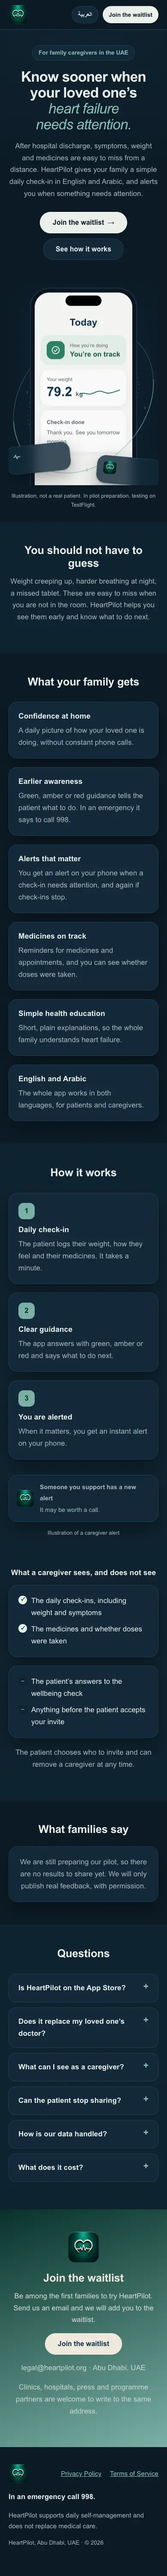
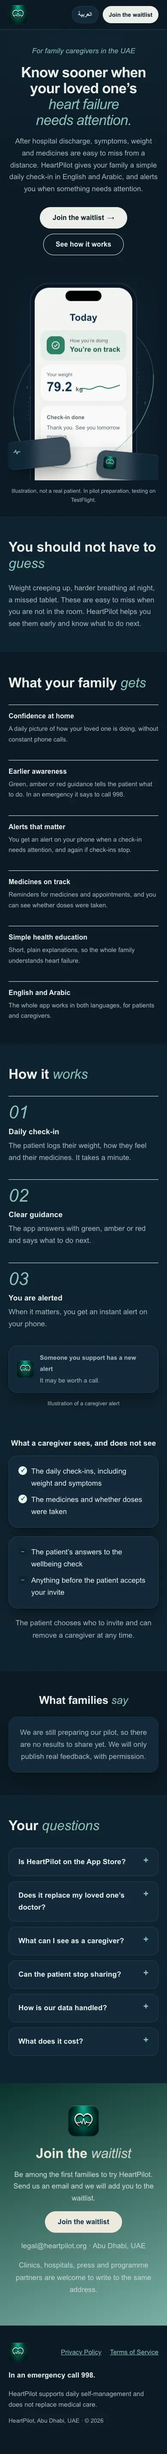
Editorial styling after references: italic accents, split heading, ruled columns, numbered steps, hero glow

diff --git a/index.html b/index.html
@@ -40,7 +40,7 @@
 </div></div></header>
 <main id="main">
 <section class="hero"><div class="wrap center">
-<p class="eyebrow"><span data-l="en">For family caregivers in the UAE</span><span data-l="ar" lang="ar">لأفراد العائلة الذين يرعون مرضى قصور القلب في الإمارات</span></p>
+<p class="eyebrow tagline"><span data-l="en">For family caregivers in the UAE</span><span data-l="ar" lang="ar">لأفراد العائلة الذين يرعون مرضى قصور القلب في الإمارات</span></p>
 <h1><span data-l="en">Know sooner when your loved one’s <em>heart failure needs attention.</em></span><span data-l="ar" lang="ar">اعرف مبكراً متى يحتاج مريض قصور القلب في عائلتك <em>إلى انتباه.</em></span></h1>
 <p class="lead"><span data-l="en">After hospital discharge, symptoms, weight and medicines are easy to miss from a distance. HeartPilot gives your family a simple daily check-in in English and Arabic, and alerts you when something needs attention.</span><span data-l="ar" lang="ar">بعد خروج المريض من المستشفى، يصعب أن تتابع الأعراض والوزن والأدوية عن بُعد. يقدم لكم هارت بايلوت فحصاً يومياً بسيطاً بالعربية والإنجليزية، وينبّهكم عندما يحتاج أمر ما إلى انتباه.</span></p>
 <div class="cta"><a class="btn btn-dark" href="#contact"><span data-l="en">Join the waitlist</span><span data-l="ar" lang="ar">انضم إلى قائمة الانتظار</span><i aria-hidden="true" class="arr">→</i></a><a class="btn btn-ghost" href="#how"><span data-l="en">See how it works</span><span data-l="ar" lang="ar">شاهد كيف يعمل</span></a></div>
@@ -63,19 +63,19 @@
 </div>
 <p class="cap"><span data-l="en">Illustration, not a real patient. In pilot preparation, testing on TestFlight.</span><span data-l="ar" lang="ar">رسم توضيحي وليس مريضاً حقيقياً. قيد التحضير للتجربة ونختبر التطبيق عبر TestFlight.</span></p>
 </div></section>
-<section class="alt"><div class="wrap narrow center">
-<h2><span data-l="en">You should not have to guess</span><span data-l="ar" lang="ar">لا ينبغي أن تظل تخمّن</span></h2>
+<section class="alt"><div class="wrap split">
+<h2><span data-l="en">You should not have to <em>guess</em></span><span data-l="ar" lang="ar">لا ينبغي أن <em>تظل تخمّن</em></span></h2>
 <p class="lead"><span data-l="en">Weight creeping up, harder breathing at night, a missed tablet. These are easy to miss when you are not in the room. HeartPilot helps you see them early and know what to do next.</span><span data-l="ar" lang="ar">زيادة الوزن شيئاً فشيئاً، وصعوبة التنفس في الليل، وجرعة منسية. أمور يسهل أن تفوتك حين لا تكون بجانب المريض. يساعدك هارت بايلوت على ملاحظتها مبكراً ومعرفة الخطوة التالية.</span></p>
 </div></section>
 <section id="benefits"><div class="wrap">
-<div class="sec-head"><h2><span data-l="en">What your family gets</span><span data-l="ar" lang="ar">ماذا تحصل عائلتك</span></h2></div>
-<ul class="grid"><li class="card"><h3><span data-l="en">Confidence at home</span><span data-l="ar" lang="ar">ثقة في البيت</span></h3><p><span data-l="en">A daily picture of how your loved one is doing, without constant phone calls.</span><span data-l="ar" lang="ar">صورة يومية عن حال مريضك، من دون اتصالات متكررة.</span></p></li><li class="card"><h3><span data-l="en">Earlier awareness</span><span data-l="ar" lang="ar">انتباه أبكر</span></h3><p><span data-l="en">Green, amber or red guidance tells the patient what to do. In an emergency it says to call 998.</span><span data-l="ar" lang="ar">إرشاد بالأخضر أو البرتقالي أو الأحمر يخبر المريض بما يفعله. وفي الطوارئ يطلب الاتصال بالرقم 998.</span></p></li><li class="card"><h3><span data-l="en">Alerts that matter</span><span data-l="ar" lang="ar">تنبيهات عند الحاجة</span></h3><p><span data-l="en">You get an alert on your phone when a check-in needs attention, and again if check-ins stop.</span><span data-l="ar" lang="ar">يصلك تنبيه على هاتفك عندما يحتاج تسجيل إلى انتباه، وعندما تتوقف التسجيلات.</span></p></li><li class="card"><h3><span data-l="en">Medicines on track</span><span data-l="ar" lang="ar">الأدوية في موعدها</span></h3><p><span data-l="en">Reminders for medicines and appointments, and you can see whether doses were taken.</span><span data-l="ar" lang="ar">تذكيرات بالأدوية والمواعيد، وترى هل أُخذت الجرعات.</span></p></li><li class="card"><h3><span data-l="en">Simple health education</span><span data-l="ar" lang="ar">تثقيف صحي مبسّط</span></h3><p><span data-l="en">Short, plain explanations, so the whole family understands heart failure.</span><span data-l="ar" lang="ar">شروحات قصيرة وواضحة ليفهم الجميع قصور القلب.</span></p></li><li class="card"><h3><span data-l="en">English and Arabic</span><span data-l="ar" lang="ar">العربية والإنجليزية</span></h3><p><span data-l="en">The whole app works in both languages, for patients and caregivers.</span><span data-l="ar" lang="ar">التطبيق كله بلغتين، للمرضى ولأفراد العائلة.</span></p></li></ul></div></section>
+<div class="sec-head"><h2><span data-l="en">What your family <em>gets</em></span><span data-l="ar" lang="ar">ماذا <em>تحصل عائلتك</em></span></h2></div>
+<ul class="grid"><li class="col"><h3><span data-l="en">Confidence at home</span><span data-l="ar" lang="ar">ثقة في البيت</span></h3><p><span data-l="en">A daily picture of how your loved one is doing, without constant phone calls.</span><span data-l="ar" lang="ar">صورة يومية عن حال مريضك، من دون اتصالات متكررة.</span></p></li><li class="col"><h3><span data-l="en">Earlier awareness</span><span data-l="ar" lang="ar">انتباه أبكر</span></h3><p><span data-l="en">Green, amber or red guidance tells the patient what to do. In an emergency it says to call 998.</span><span data-l="ar" lang="ar">إرشاد بالأخضر أو البرتقالي أو الأحمر يخبر المريض بما يفعله. وفي الطوارئ يطلب الاتصال بالرقم 998.</span></p></li><li class="col"><h3><span data-l="en">Alerts that matter</span><span data-l="ar" lang="ar">تنبيهات عند الحاجة</span></h3><p><span data-l="en">You get an alert on your phone when a check-in needs attention, and again if check-ins stop.</span><span data-l="ar" lang="ar">يصلك تنبيه على هاتفك عندما يحتاج تسجيل إلى انتباه، وعندما تتوقف التسجيلات.</span></p></li><li class="col"><h3><span data-l="en">Medicines on track</span><span data-l="ar" lang="ar">الأدوية في موعدها</span></h3><p><span data-l="en">Reminders for medicines and appointments, and you can see whether doses were taken.</span><span data-l="ar" lang="ar">تذكيرات بالأدوية والمواعيد، وترى هل أُخذت الجرعات.</span></p></li><li class="col"><h3><span data-l="en">Simple health education</span><span data-l="ar" lang="ar">تثقيف صحي مبسّط</span></h3><p><span data-l="en">Short, plain explanations, so the whole family understands heart failure.</span><span data-l="ar" lang="ar">شروحات قصيرة وواضحة ليفهم الجميع قصور القلب.</span></p></li><li class="col"><h3><span data-l="en">English and Arabic</span><span data-l="ar" lang="ar">العربية والإنجليزية</span></h3><p><span data-l="en">The whole app works in both languages, for patients and caregivers.</span><span data-l="ar" lang="ar">التطبيق كله بلغتين، للمرضى ولأفراد العائلة.</span></p></li></ul></div></section>
 <section class="alt" id="how"><div class="wrap">
-<div class="sec-head"><h2><span data-l="en">How it works</span><span data-l="ar" lang="ar">كيف يعمل</span></h2></div>
+<div class="sec-head"><h2><span data-l="en">How it <em>works</em></span><span data-l="ar" lang="ar">كيف <em>يعمل</em></span></h2></div>
 <ol class="steps">
-<li class="card"><span class="num">1</span><h3><span data-l="en">Daily check-in</span><span data-l="ar" lang="ar">الفحص اليومي</span></h3><p><span data-l="en">The patient logs their weight, how they feel and their medicines. It takes a minute.</span><span data-l="ar" lang="ar">يسجّل المريض وزنه وشعوره وأدويته. يستغرق ذلك دقيقة واحدة.</span></p></li>
-<li class="card"><span class="num">2</span><h3><span data-l="en">Clear guidance</span><span data-l="ar" lang="ar">إرشاد واضح</span></h3><p><span data-l="en">The app answers with green, amber or red and says what to do next.</span><span data-l="ar" lang="ar">يجيب التطبيق بالأخضر أو البرتقالي أو الأحمر ويقول ما يجب فعله بعد ذلك.</span></p></li>
-<li class="card"><span class="num">3</span><h3><span data-l="en">You are alerted</span><span data-l="ar" lang="ar">يصلك تنبيه</span></h3><p><span data-l="en">When it matters, you get an instant alert on your phone.</span><span data-l="ar" lang="ar">عندما يستدعي الأمر ذلك، يصلك تنبيه فوري على هاتفك.</span></p></li>
+<li class="step"><span class="num">01</span><h3><span data-l="en">Daily check-in</span><span data-l="ar" lang="ar">الفحص اليومي</span></h3><p><span data-l="en">The patient logs their weight, how they feel and their medicines. It takes a minute.</span><span data-l="ar" lang="ar">يسجّل المريض وزنه وشعوره وأدويته. يستغرق ذلك دقيقة واحدة.</span></p></li>
+<li class="step"><span class="num">02</span><h3><span data-l="en">Clear guidance</span><span data-l="ar" lang="ar">إرشاد واضح</span></h3><p><span data-l="en">The app answers with green, amber or red and says what to do next.</span><span data-l="ar" lang="ar">يجيب التطبيق بالأخضر أو البرتقالي أو الأحمر ويقول ما يجب فعله بعد ذلك.</span></p></li>
+<li class="step"><span class="num">03</span><h3><span data-l="en">You are alerted</span><span data-l="ar" lang="ar">يصلك تنبيه</span></h3><p><span data-l="en">When it matters, you get an instant alert on your phone.</span><span data-l="ar" lang="ar">عندما يستدعي الأمر ذلك، يصلك تنبيه فوري على هاتفك.</span></p></li>
 </ol>
 <div class="notif" role="img" aria-label="An illustration of a caregiver alert notification" data-aria-en="An illustration of a caregiver alert notification" data-aria-ar="رسم توضيحي لتنبيه يصل إلى أحد أفراد العائلة"><img class="logo" src="/assets/logo-128.png" width="40" height="40" alt=""><div><b><span data-l="en">Someone you support has a new alert</span><span data-l="ar" lang="ar">لدى شخص تدعمه تنبيه جديد</span></b><span><span data-l="en">It may be worth a call.</span><span data-l="ar" lang="ar">قد يستحق الأمر مكالمة.</span></span></div></div>
 <p class="cap center"><span data-l="en">Illustration of a caregiver alert</span><span data-l="ar" lang="ar">رسم توضيحي لتنبيه يصل إلى أحد أفراد العائلة</span></p>
@@ -85,17 +85,17 @@
 <p class="center muted"><span data-l="en">The patient chooses who to invite and can remove a caregiver at any time.</span><span data-l="ar" lang="ar">المريض هو من يختار من يدعوه، ويمكنه إزالة أي شخص في أي وقت.</span></p>
 </div></section>
 <section id="proof"><div class="wrap narrow center">
-<h2><span data-l="en">What families say</span><span data-l="ar" lang="ar">ماذا تقول العائلات</span></h2>
+<h2><span data-l="en">What families <em>say</em></span><span data-l="ar" lang="ar">ماذا <em>تقول العائلات</em></span></h2>
 <!-- PLACEHOLDER: add real testimonials, pilot results or clinician endorsements here, with permission. Nothing is invented. -->
 <div class="card ph-card"><p><span data-l="en">We are still preparing our pilot, so there are no results to share yet. We will only publish real feedback, with permission.</span><span data-l="ar" lang="ar">ما زلنا نحضّر للتجربة، فلا توجد نتائج لنشرها بعد. وسننشر فقط آراء حقيقية وبموافقة أصحابها.</span></p></div>
 </div></section>
 <section class="alt" id="faq"><div class="wrap narrow">
-<div class="sec-head"><h2><span data-l="en">Questions</span><span data-l="ar" lang="ar">أسئلة شائعة</span></h2></div>
+<div class="sec-head"><h2><span data-l="en">Your <em>questions</em></span><span data-l="ar" lang="ar">أسئلة <em>شائعة</em></span></h2></div>
 <details class="faq"><summary><span data-l="en">Is HeartPilot on the App Store?</span><span data-l="ar" lang="ar">هل هارت بايلوت متوفر في App Store؟</span></summary><p><span data-l="en">Not yet. It is in pilot preparation and in TestFlight testing. Join the waitlist and we will tell you when you can try it.</span><span data-l="ar" lang="ar">ليس بعد. التطبيق قيد التحضير للتجربة ونختبره عبر TestFlight. انضم إلى قائمة الانتظار وسنخبرك عندما تتاح لك التجربة.</span></p></details><details class="faq"><summary><span data-l="en">Does it replace my loved one’s doctor?</span><span data-l="ar" lang="ar">هل يغني عن طبيب مريضي؟</span></summary><p><span data-l="en">No. HeartPilot supports daily self-management and does not replace medical care. In an emergency call 998.</span><span data-l="ar" lang="ar">لا. يساعد هارت بايلوت على المتابعة اليومية الذاتية، ولا يغني عن الرعاية الطبية. في حالة الطوارئ اتصل بالرقم 998.</span></p></details><details class="faq"><summary><span data-l="en">What can I see as a caregiver?</span><span data-l="ar" lang="ar">ماذا أرى بصفتي أحد أفراد العائلة؟</span></summary><p><span data-l="en">The daily check-ins, the medicines and whether doses were taken. You do not see the patient’s answers to the wellbeing check.</span><span data-l="ar" lang="ar">التسجيلات اليومية والأدوية وهل أُخذت الجرعات. لا ترى إجابات المريض عن فحص الحالة النفسية.</span></p></details><details class="faq"><summary><span data-l="en">Can the patient stop sharing?</span><span data-l="ar" lang="ar">هل يستطيع المريض إيقاف المشاركة؟</span></summary><p><span data-l="en">Yes. The patient chooses who to invite and can remove a caregiver at any time. Patients and caregivers can also delete their account inside the app.</span><span data-l="ar" lang="ar">نعم. المريض هو من يختار من يدعوه ويمكنه إزالة أي شخص في أي وقت. ويمكن للمريض ولأفراد العائلة أيضاً حذف حسابهم من داخل التطبيق.</span></p></details><details class="faq"><summary><span data-l="en">How is our data handled?</span><span data-l="ar" lang="ar">كيف تُعالج بياناتنا؟</span></summary><p><span data-l="en">Under our published Privacy Policy, which you can read before you join.</span><span data-l="ar" lang="ar">وفق سياسة الخصوصية المنشورة، ويمكنك قراءتها قبل الانضمام.</span></p></details><details class="faq"><summary><span data-l="en">What does it cost?</span><span data-l="ar" lang="ar">كم تبلغ التكلفة؟</span></summary><p><span data-l="en">Pricing has not been announced yet.</span><span data-l="ar" lang="ar">لم يُعلن عن الأسعار بعد.</span></p></details>
 </div></section>
 <section class="cta-band" id="contact"><div class="wrap narrow center">
 <img class="logo logo-lg" src="/assets/logo-128.png" width="72" height="72" alt="">
-<h2><span data-l="en">Join the waitlist</span><span data-l="ar" lang="ar">انضم إلى قائمة الانتظار</span></h2>
+<h2><span data-l="en">Join the <em>waitlist</em></span><span data-l="ar" lang="ar">انضم إلى <em>قائمة الانتظار</em></span></h2>
 <p class="lead"><span data-l="en">Be among the first families to try HeartPilot. Send us an email and we will add you to the waitlist.</span><span data-l="ar" lang="ar">كن بين أولى العائلات التي تجرب هارت بايلوت. راسلنا وسنضيفك إلى قائمة الانتظار.</span></p>
 <p><a class="btn" id="mail" href="mailto:legal@heartpilot.org?subject=HeartPilot%20waitlist" data-subj-en="HeartPilot waitlist" data-subj-ar="قائمة انتظار هارت بايلوت"><span data-l="en">Join the waitlist</span><span data-l="ar" lang="ar">انضم إلى قائمة الانتظار</span></a></p>
 <p class="muted"><span dir="ltr" class="ltr">legal@heartpilot.org</span> · <span data-l="en">Abu Dhabi, UAE</span><span data-l="ar" lang="ar">أبوظبي، الإمارات</span></p>

diff --git a/assets/css/styles.css b/assets/css/styles.css
@@ -48,7 +48,8 @@ p{margin:0 0 1em}
 @media (max-width:420px){.btn-sm{padding:0 12px;font-size:.85rem}.brand .word{display:none}}
 /* hero (layout after the supplied reference: centred headline, italic second line, glass cards around a central visual) */
 .hero{padding:clamp(36px,6vw,80px) 0 0;background:radial-gradient(900px 480px at 50% 0%,var(--alt),transparent 70%);overflow:hidden}
-.eyebrow{display:inline-block;margin:0 0 20px;padding:6px 14px;border-radius:999px;background:var(--surface);border:1px solid var(--line);color:var(--teal-text);font-weight:700;font-size:.85rem}
+.eyebrow{display:inline-block;margin:0 0 18px;color:var(--teal-text);font-style:italic;font-size:1.05rem}
+html[lang=ar] .eyebrow{font-style:normal;font-weight:700;font-size:.95rem}
 .hero h1{font-size:clamp(2.1rem,5.2vw,4.1rem);line-height:1.1;letter-spacing:-.03em;max-width:19em;margin-inline:auto;text-wrap:balance}
 .hero h1 em{display:block;font-style:italic;font-weight:400;color:var(--teal-text)}
 html[lang=ar] .hero h1{font-size:clamp(1.8rem,4.4vw,3.3rem);line-height:1.4}html[lang=ar] .hero h1 em{font-style:normal;font-weight:700}
@@ -138,3 +139,25 @@ section{padding:clamp(52px,8vw,92px) 0}
 @media (max-width:620px){.grid,.steps{grid-template-columns:1fr}.card{padding:22px}}
 @keyframes rise{from{opacity:0;transform:translateY(24px)}to{opacity:1;transform:none}}
 @media (prefers-reduced-motion:reduce){*,*::before,*::after{animation:none!important;transition:none!important;scroll-behavior:auto!important}}
+
+/* editorial touches after the supplied references */
+h2 em{font-style:italic;font-weight:400;color:var(--teal-text)}
+html[lang=ar] h2 em{font-style:normal;font-weight:700}
+.btn-ghost{background:transparent;border:1.5px solid var(--ink)}
+.stage::before{content:"";position:absolute;inset-inline:6%;top:8%;bottom:-10%;border-radius:50%;background:radial-gradient(closest-side,rgba(22,107,92,.30),rgba(239,233,220,.55) 55%,transparent 75%);filter:blur(30px);z-index:0}
+@media (prefers-color-scheme:dark){.stage::before{background:radial-gradient(closest-side,rgba(121,176,165,.28),rgba(18,41,58,.5) 55%,transparent 75%)}}
+.split{display:grid;grid-template-columns:1fr 1fr;gap:clamp(24px,6vw,80px);align-items:center}
+.split h2{font-size:clamp(2rem,4.6vw,3.2rem);margin:0}
+.split .lead{margin:0}
+@media (max-width:760px){.split{grid-template-columns:1fr}}
+.grid{gap:36px 40px}
+.col{list-style:none;border-top:1px solid var(--ink);padding-top:16px}
+.col h3{font-size:1rem;margin:0 0 8px}.col p{font-size:.92rem;color:var(--muted);margin:0}
+.steps{gap:36px 40px}
+.step{list-style:none;border-top:1px solid var(--ink);padding-top:16px}
+.step .num{display:block;width:auto;height:auto;background:none;color:var(--teal-text);font-size:2.6rem;font-style:italic;font-weight:400;line-height:1;margin-bottom:14px}
+.step h3{margin:0 0 8px}.step p{color:var(--muted);margin:0}
+.sec-head{text-align:start;max-width:none}
+.sec-head h2{font-size:clamp(2rem,4.6vw,3.2rem)}
+.cta-band h2{font-size:clamp(2rem,5vw,3.4rem)}
+.cta-band h2 em{color:#EFE9DC;opacity:.85}

diff --git a/docs/arabic-review.md b/docs/arabic-review.md
@@ -73,7 +73,7 @@ One line needs a decision: *HeartPilot* is written « هارت بايلوت » i
 | 61 | FAQ | Under our published Privacy Policy, which you can read before you join. | وفق سياسة الخصوصية المنشورة، ويمكنك قراءتها قبل الانضمام. | |
 | 62 | FAQ | What does it cost? | كم تبلغ التكلفة؟ | |
 | 63 | FAQ | Pricing has not been announced yet. | لم يُعلن عن الأسعار بعد. | |
-| 64 | FAQ | Questions | أسئلة شائعة | |
+| 64 | FAQ | Your questions | أسئلة شائعة | |
 | 65 | Call to action and contact | Be among the first families to try HeartPilot. Send us an email and we will add you to the waitlist. | كن بين أولى العائلات التي تجرب هارت بايلوت. راسلنا وسنضيفك إلى قائمة الانتظار. | |
 | 66 | Call to action and contact | Abu Dhabi, UAE | أبوظبي، الإمارات | |
 | 67 | Call to action and contact | Clinics, hospitals, press and programme partners are welcome to write to the same address. | نرحب بالعيادات والمستشفيات والصحافة وشركاء البرامج للكتابة إلى العنوان نفسه. | |
